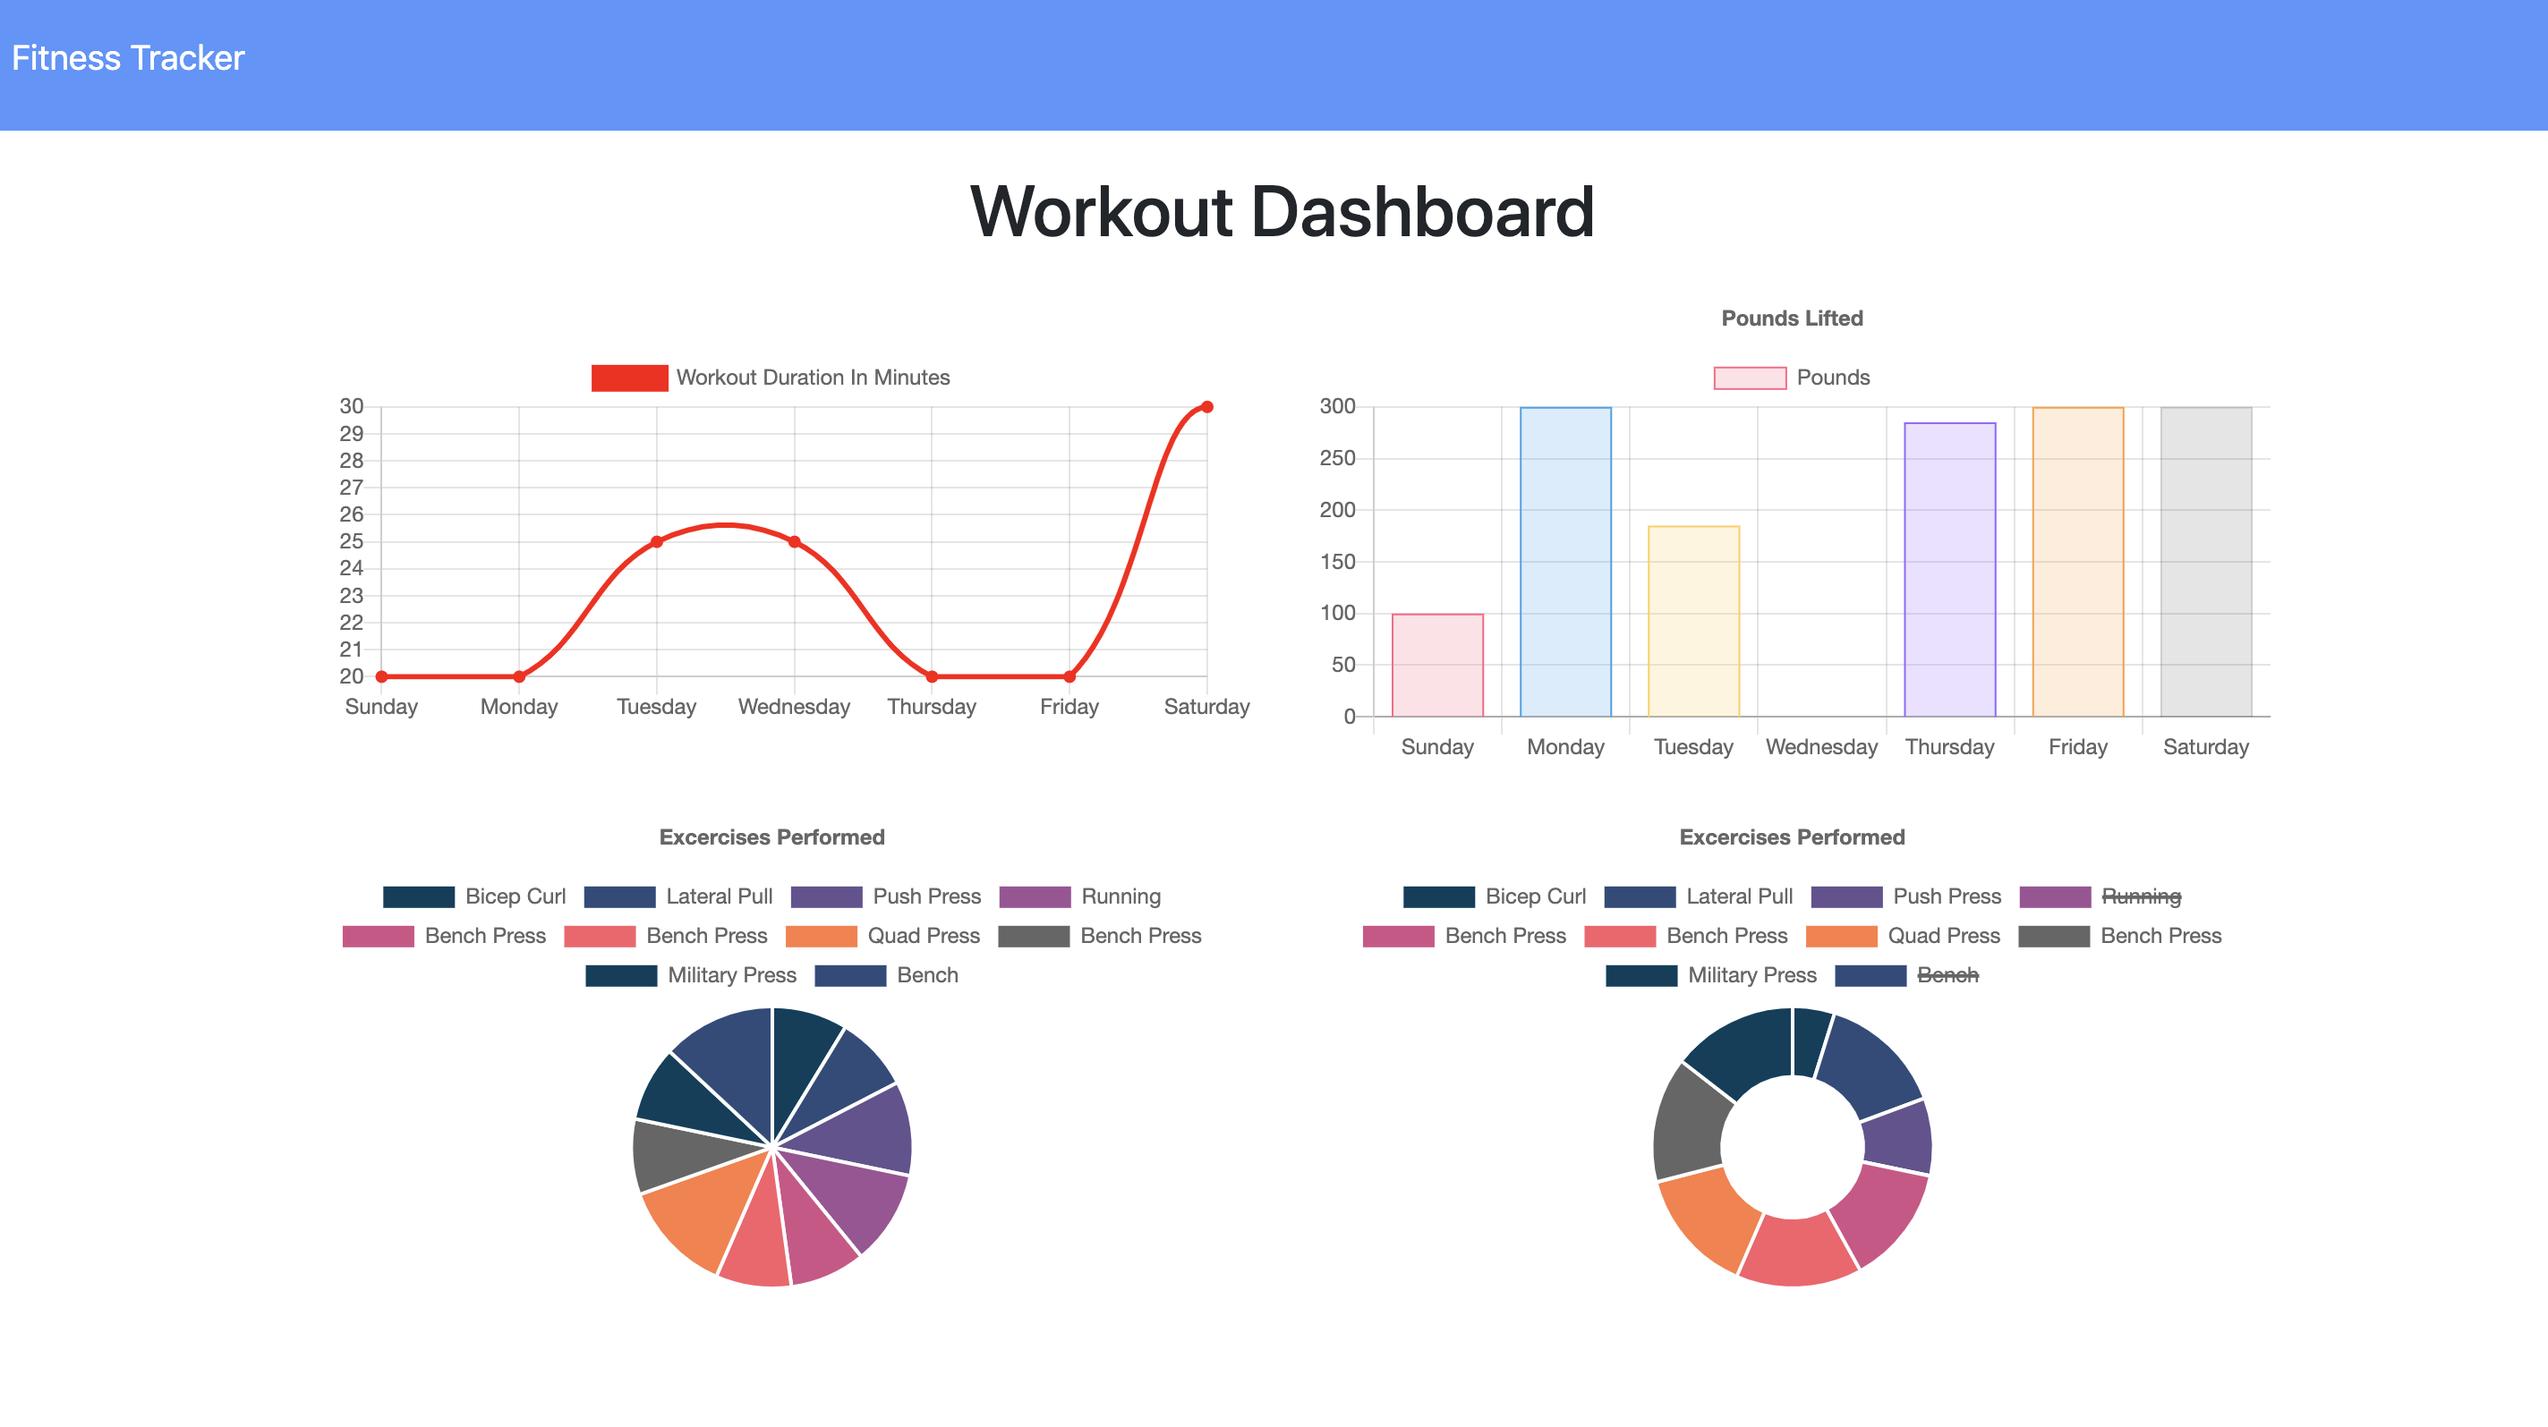
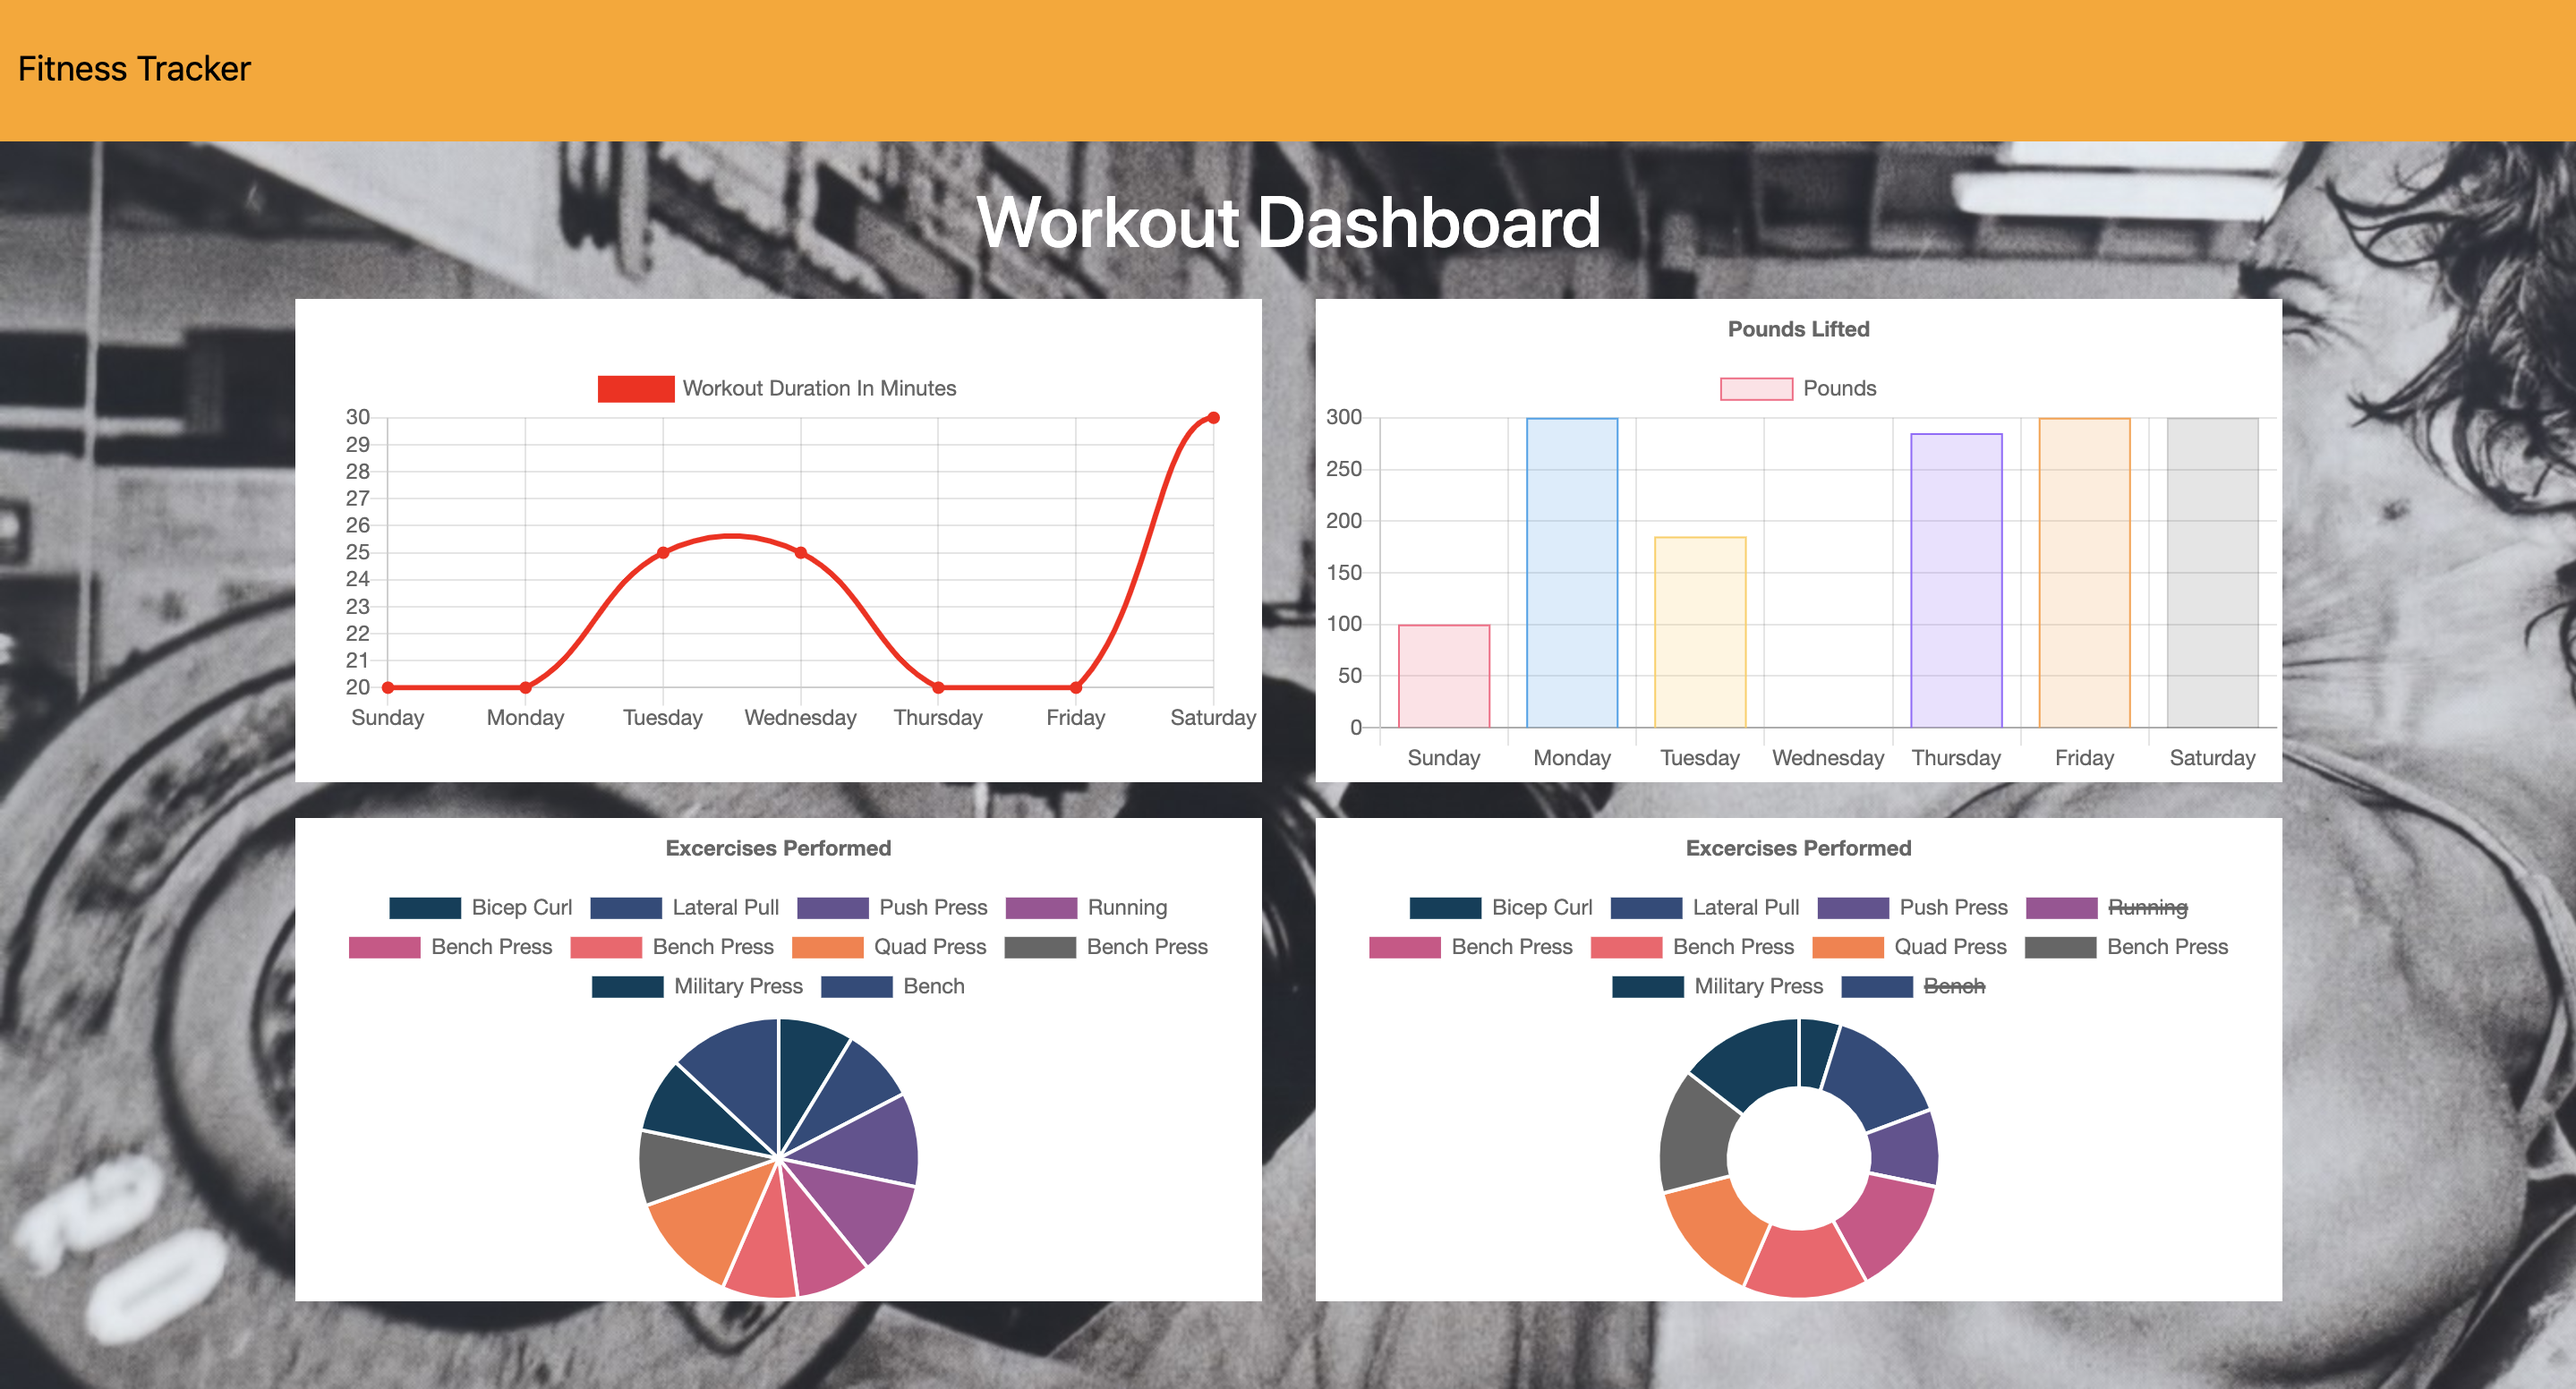
added styling

diff --git a/public/style.css b/public/style.css
@@ -9,7 +9,11 @@
 html,
 body,
 .wrapper {
+  background-image: url(./assets/img/arnold.jpg);
+  /* background-repeat: repeat-x; */
+  background-attachment: scroll;
   height: 100%;
+  width: 100%
 }
 
 body {
@@ -17,8 +21,8 @@ body {
 }
 
 nav {
-  background-color: #5793fd;
-  color: #ffffff;
+  background-color: orange;
+  color: black;
   height: 80px;
   padding: 10px;
   line-height: 3;
@@ -42,6 +46,7 @@ header {
 
 header h1 {
   transform: skewX(-2deg);
+  color: white;
 }
 
 select {
@@ -59,6 +64,15 @@ select {
   background-repeat: no-repeat, repeat;
   background-position: right 0.7em top 50%, 0 0;
   background-size: 0.65em auto, 100%;
+}
+.chartjs-render-monitor {
+  animation: chartjs-render-animation 1ms;
+  background: white;
+}
+
+.text-center {
+  text-align: center!important;
+  color: white;
 }
 
 select::-ms-expand {
@@ -96,7 +110,7 @@ input {
 }
 
 .wrapper {
-  background-color: #f2f8ff;
+  background-color: black;
   padding-bottom: 100px;
 }
 
@@ -411,6 +425,11 @@ form > button {
   border-top-left-radius: 0;
   border-top-right-radius: 0;
   border-bottom-right-radius: 0;
+  background: gray
+}
+
+.ui.positive.button {
+  background-color: orange
 }
 
 .buttons .ui.button:nth-child(2) {
